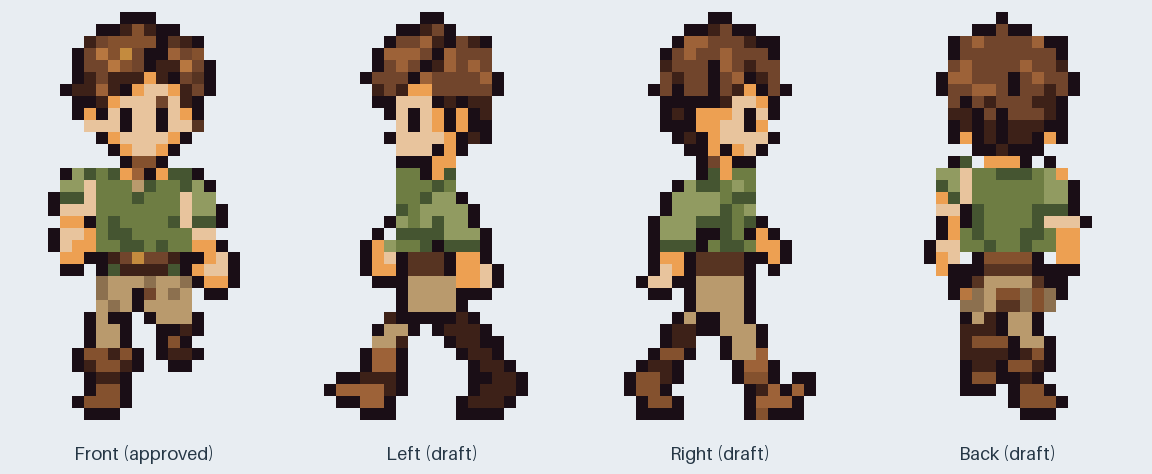
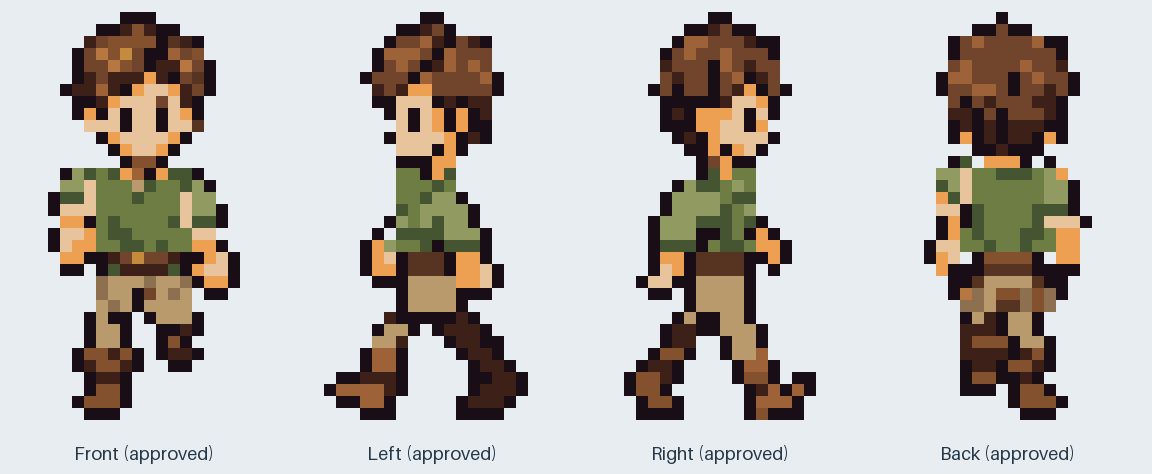
Record approval of all base male NPC walking directions

Changed region(s): [[0.8125, 0.9451, 0.9375, 0.9747], [0.5625, 0.9451, 0.6875, 0.9747], [0.3125, 0.9451, 0.4375, 0.9747]]

diff --git a/assets/characters/npcs/male_01/README.md b/assets/characters/npcs/male_01/README.md
@@ -33,12 +33,12 @@ The [four-frame front walk](walk_front/README.md) is approved and built with the
 
 All three male front-walk palettes are approved. Compare all three in `../male_walk_front_variants_review.gif`; the original base walk remains approved and unchanged.
 
-## Other walking directions for review
+## Approved walking directions
 
-The [left](walk_left/README.md), [right](walk_right/README.md) and [back](walk_back/README.md) walks are drafts, with four 24×36 frames per direction and the same 140 ms phases and coordinated head-and-shoulder bob as the approved front walk.
+The [left](walk_left/README.md), [right](walk_right/README.md) and [back](walk_back/README.md) walks are approved, with four 24×36 frames per direction and the same 140 ms phases and coordinated head-and-shoulder bob as the approved front walk.
 
 - `walk_directions.png`: native 96×144 sheet; rows are front, left, right, back and columns are playback phases.
 - `walk_directions.json`: frame rectangles, timing and individual direction statuses.
 - `walk_directions_review.gif`: labeled 12× synchronized four-direction preview; `_review.png` is the first phase.
 
-Rebuild the base's four walks and comparison with `python tools/build_character_walk.py npcs/male_01 --direction all`. The original approved front cycle is unchanged. After base direction approval, the existing palette builder will produce matching rust/charcoal and slate/brown cycles.
+Rebuild the base's four walks and comparison with `python tools/build_character_walk.py npcs/male_01 --direction all`. The original approved front cycle is unchanged. The existing palette builder will use these approved base directions for matching rust/charcoal and slate/brown cycles.

diff --git a/tools/README.md b/tools/README.md
@@ -29,4 +29,4 @@ Build the two front-walk palettes and a synchronized three-NPC review with `pyth
 
 Outputs include each variant's four native frames, sheet, metadata, posed source parts, static strip and looping previews. `assets/characters/npcs/male_walk_front_variants.png` is a native 96×108 sheet with variants as rows and phases as columns. Its JSON records timing, anchors and per-variant animation status; `_review.gif` shows all three in synchronized 16× columns and `_review.png` is the first phase. `--direction` can select another direction after its base walk is approved.
 
-The base male NPC now has draft left, right and back walk recipes. Rebuild all base directions and the labeled four-direction comparison with `python tools/build_character_walk.py npcs/male_01 --direction all`. These use the already-approved directional idles and retained shared pose masks. The original front walk remains unchanged. The palette helper will derive each remaining direction after its base cycle is approved.
+The base male NPC has approved left, right and back walk recipes. Rebuild all base directions and the labeled four-direction comparison with `python tools/build_character_walk.py npcs/male_01 --direction all`. These use the already-approved directional idles and retained shared pose masks. The original front walk remains unchanged. The palette helper can derive each remaining direction from these approved base cycles.

diff --git a/README.md b/README.md
@@ -36,4 +36,4 @@ The base male NPC's [four-frame front walk](assets/characters/npcs/male_01/walk_
 
 The [rust/charcoal](assets/characters/npcs/male_02/walk_front/README.md) and [slate/brown](assets/characters/npcs/male_03/walk_front/README.md) front-walk variants are approved. The [synchronized comparison](assets/characters/npcs/male_walk_front_variants_review.gif) shows all three palettes using the same stride, timing and bob.
 
-The base male NPC's [left](assets/characters/npcs/male_01/walk_left/README.md), [right](assets/characters/npcs/male_01/walk_right/README.md) and [back](assets/characters/npcs/male_01/walk_back/README.md) walking cycles await animation review. The [four-direction looping preview](assets/characters/npcs/male_01/walk_directions_review.gif) includes the approved front walk for comparison. Other palette walks will follow approval of these base cycles.
+The base male NPC's [left](assets/characters/npcs/male_01/walk_left/README.md), [right](assets/characters/npcs/male_01/walk_right/README.md) and [back](assets/characters/npcs/male_01/walk_back/README.md) walking cycles are approved. The [four-direction looping preview](assets/characters/npcs/male_01/walk_directions_review.gif) includes the approved front walk for comparison. Other palette walks will use these approved base cycles.

diff --git a/assets/characters/npcs/male_01/walk_right/README.md b/assets/characters/npcs/male_01/walk_right/README.md
@@ -1,6 +1,6 @@
 # Male NPC 01 — right-facing walk
 
-Status: draft awaiting user review. The front walk and all directional idle designs remain approved.
+Status: approved by the user in chat. The front walk and all directional idle designs remain approved.
 
 Four 24×36 frames use Caelan's approved right-facing poses and the NPC's approved `../idle_right.png` appearance. Head and face pixels remain intact. The head, neck, shoulders and upper shirt rise together by one pixel on passing frames 2 and 4. All frames use 140 ms timing and the shared `[12, 34]` foot anchor.
 
@@ -20,4 +20,4 @@ Rebuild from the repository root with the asset dependencies installed:
 python tools/build_character_walk.py npcs/male_01 --direction right
 ```
 
-Prepared parts are retained under `../../../../source/characters/npcs/male_01/walk_right/parts/`. Compare all four directions in `../walk_directions_review.gif`. The other two palettes will be applied after approval of these base directional cycles.
+Prepared parts are retained under `../../../../source/characters/npcs/male_01/walk_right/parts/`. Compare all four directions in `../walk_directions_review.gif`. The other two palettes will use these approved base directional cycles.

diff --git a/assets/characters/npcs/male_01/walk_back/README.md b/assets/characters/npcs/male_01/walk_back/README.md
@@ -1,6 +1,6 @@
 # Male NPC 01 — back-facing walk
 
-Status: draft awaiting user review. The front walk and all directional idle designs remain approved.
+Status: approved by the user in chat. The front walk and all directional idle designs remain approved.
 
 Four 24×36 frames use Caelan's approved back-facing poses and the NPC's approved `../idle_back.png` appearance. Head and face pixels remain intact. The head, neck, shoulders and upper shirt rise together by one pixel on passing frames 2 and 4. All frames use 140 ms timing and the shared `[12, 34]` foot anchor.
 
@@ -20,4 +20,4 @@ Rebuild from the repository root with the asset dependencies installed:
 python tools/build_character_walk.py npcs/male_01 --direction back
 ```
 
-Prepared parts are retained under `../../../../source/characters/npcs/male_01/walk_back/parts/`. Compare all four directions in `../walk_directions_review.gif`. The other two palettes will be applied after approval of these base directional cycles.
+Prepared parts are retained under `../../../../source/characters/npcs/male_01/walk_back/parts/`. Compare all four directions in `../walk_directions_review.gif`. The other two palettes will use these approved base directional cycles.

diff --git a/assets/characters/npcs/male_01/walk_left/README.md b/assets/characters/npcs/male_01/walk_left/README.md
@@ -1,6 +1,6 @@
 # Male NPC 01 — left-facing walk
 
-Status: draft awaiting user review. The front walk and all directional idle designs remain approved.
+Status: approved by the user in chat. The front walk and all directional idle designs remain approved.
 
 Four 24×36 frames use Caelan's approved left-facing poses and the NPC's approved `../idle_left.png` appearance. Head and face pixels remain intact. The head, neck, shoulders and upper shirt rise together by one pixel on passing frames 2 and 4. All frames use 140 ms timing and the shared `[12, 34]` foot anchor.
 
@@ -20,4 +20,4 @@ Rebuild from the repository root with the asset dependencies installed:
 python tools/build_character_walk.py npcs/male_01 --direction left
 ```
 
-Prepared parts are retained under `../../../../source/characters/npcs/male_01/walk_left/parts/`. Compare all four directions in `../walk_directions_review.gif`. The other two palettes will be applied after approval of these base directional cycles.
+Prepared parts are retained under `../../../../source/characters/npcs/male_01/walk_left/parts/`. Compare all four directions in `../walk_directions_review.gif`. The other two palettes will use these approved base directional cycles.

diff --git a/assets/source/characters/npcs/male_01/walk_right/README.md b/assets/source/characters/npcs/male_01/walk_right/README.md
@@ -1,6 +1,6 @@
 # Male NPC 01 — right-walk parts
 
-Status: draft animation awaiting user review.
+Status: walking animation approved by the user in chat.
 
 The approved right idle supplies the head and appearance. The common builder retains its head/face pixels, prepares the torso and waist, materializes the shared posed arms, and recolors the shared leg silhouettes to tan trousers and brown boots. `parts/` contains the appearance layers, limb references, posed arms and recolored legs for all four phases.
 

diff --git a/assets/source/characters/npcs/male_01/walk_back/README.md b/assets/source/characters/npcs/male_01/walk_back/README.md
@@ -1,6 +1,6 @@
 # Male NPC 01 — back-walk parts
 
-Status: draft animation awaiting user review.
+Status: walking animation approved by the user in chat.
 
 The approved back idle supplies the head and appearance. The common builder retains its head/face pixels, prepares the torso and waist, materializes the shared posed arms, and recolors the shared leg silhouettes to tan trousers and brown boots. `parts/` contains the appearance layers, limb references, posed arms and recolored legs for all four phases.
 

diff --git a/assets/source/characters/npcs/male_01/walk_left/README.md b/assets/source/characters/npcs/male_01/walk_left/README.md
@@ -1,6 +1,6 @@
 # Male NPC 01 — left-walk parts
 
-Status: draft animation awaiting user review.
+Status: walking animation approved by the user in chat.
 
 The approved left idle supplies the head and appearance. The common builder retains its head/face pixels, prepares the torso and waist, materializes the shared posed arms, and recolors the shared leg silhouettes to tan trousers and brown boots. `parts/` contains the appearance layers, limb references, posed arms and recolored legs for all four phases.
 
